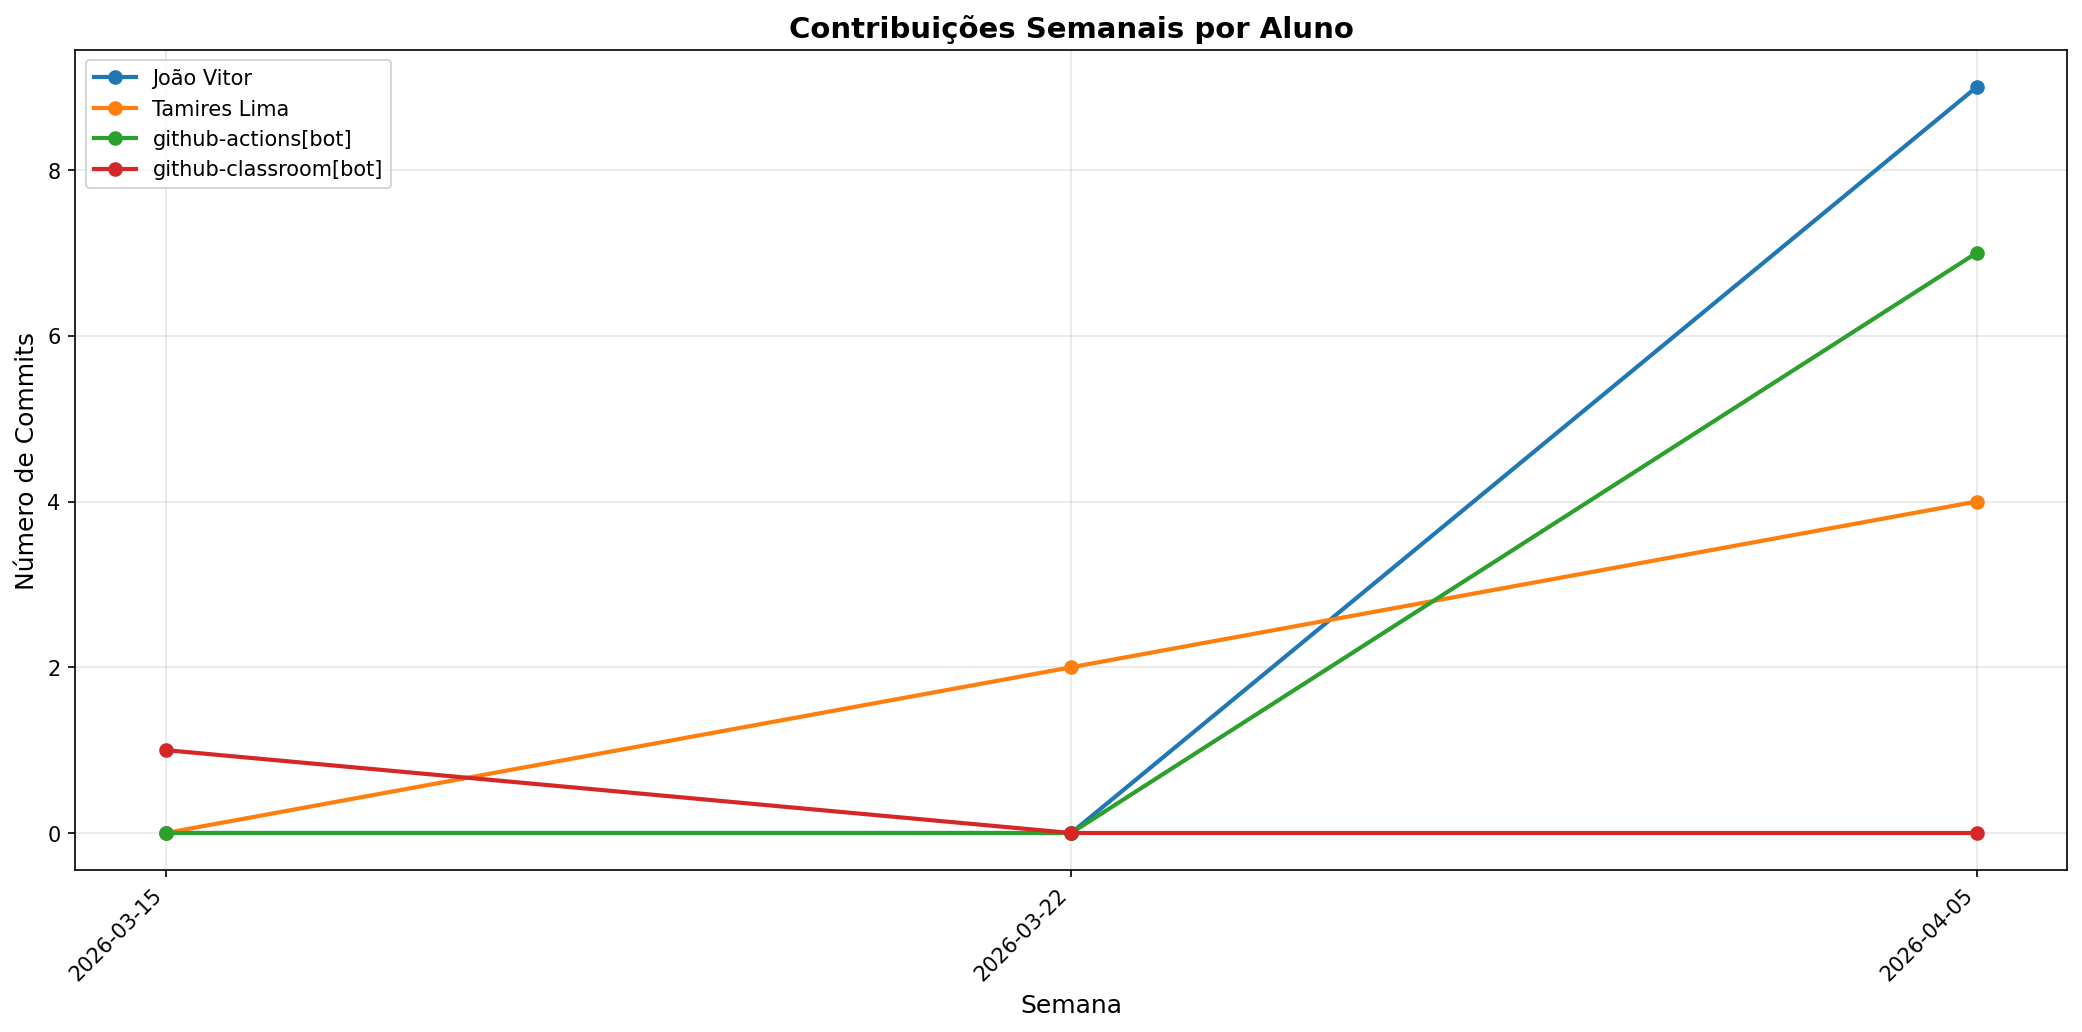
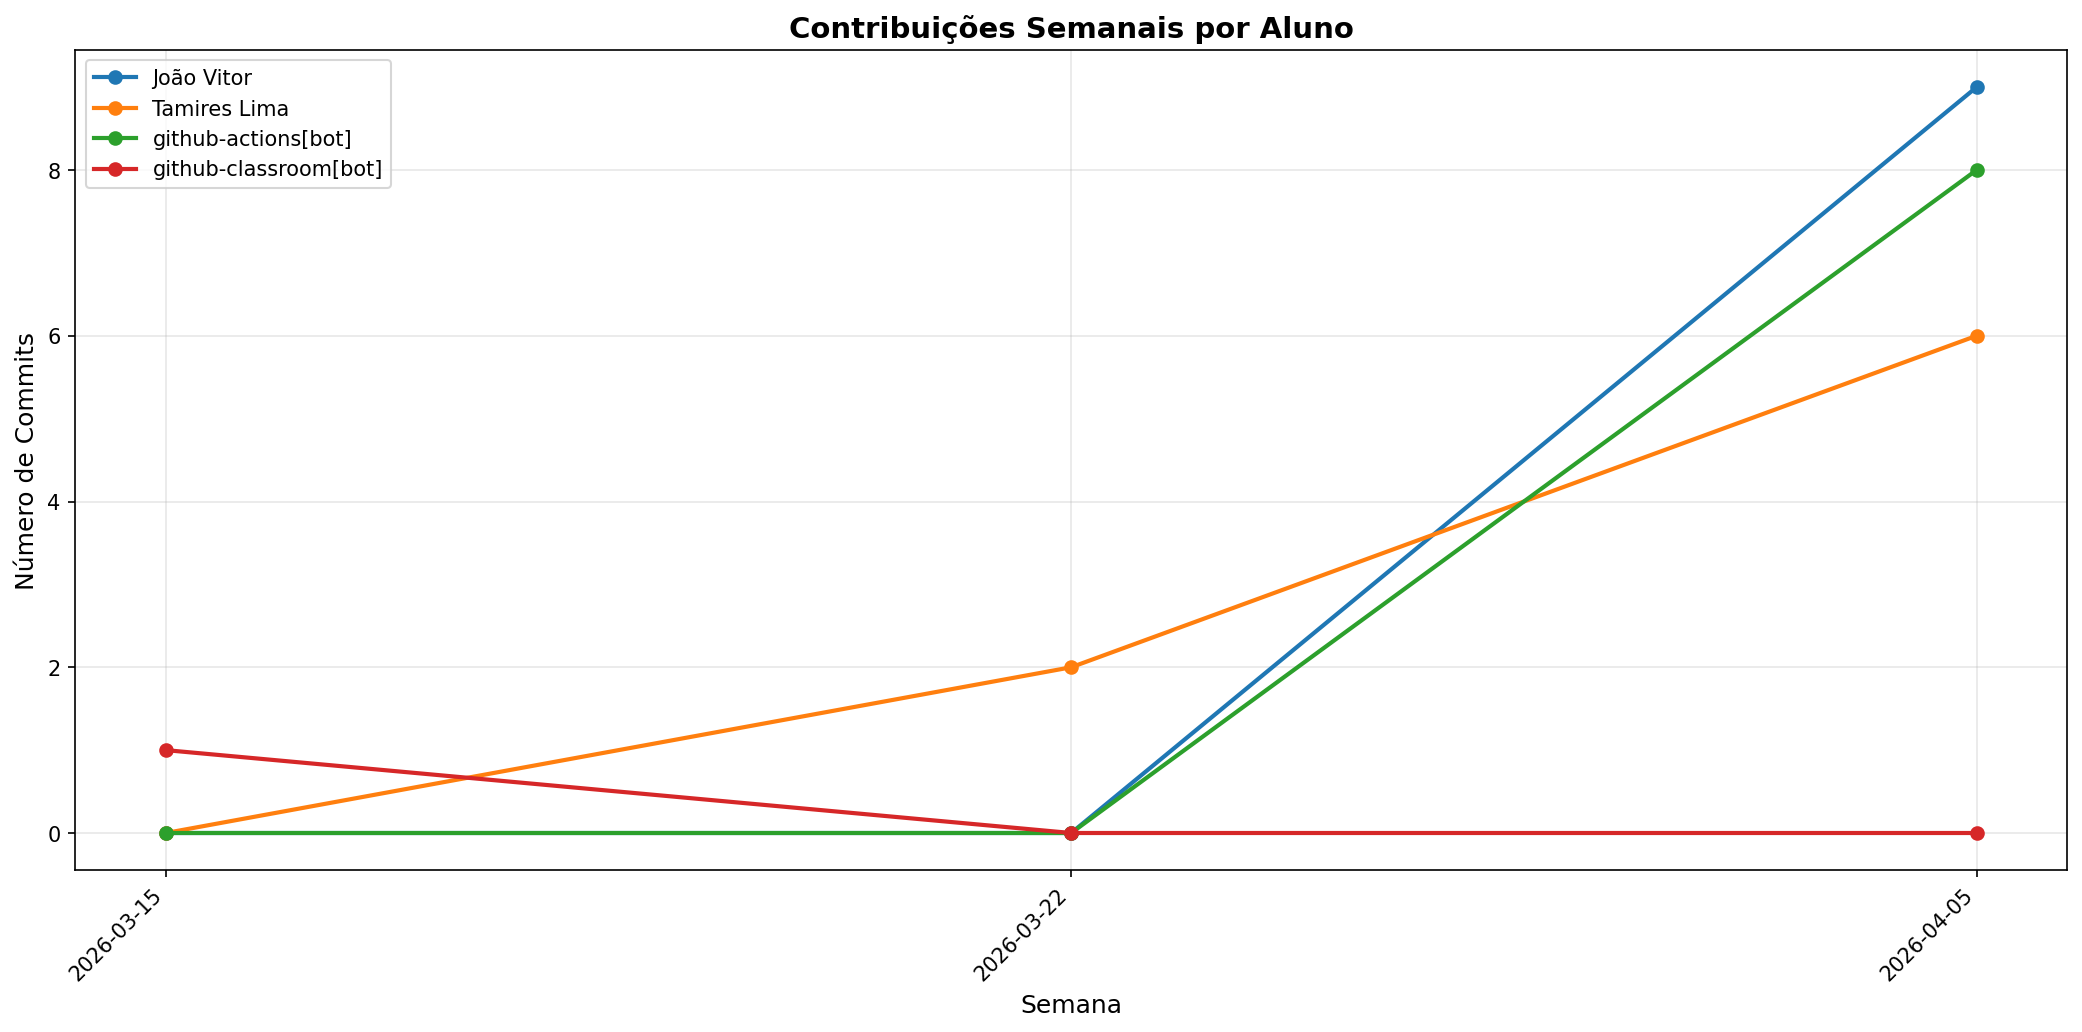
📊 Atualizar relatório de contribuições [skip ci]

diff --git a/documentos/CONTRIBUTION_REPORT.md b/documentos/CONTRIBUTION_REPORT.md
@@ -1,6 +1,6 @@
 # 📊 Relatório de Contribuições do Projeto
 
-**Última atualização:** 12/04/2026 16:58
+**Última atualização:** 12/04/2026 17:30
 
 ---
 
@@ -9,14 +9,14 @@
 | Aluno                 |   Commits |   Linhas+ |   Linhas- |   Arquivos |   Docs Commits |   Docs Arquivos |
 |-----------------------|-----------|-----------|-----------|------------|----------------|-----------------|
 | João Vitor            |         9 |        54 |        33 |          1 |              9 |               0 |
-| Tamires Lima          |         6 |       148 |        61 |         13 |              6 |               3 |
-| github-actions[bot]   |         7 |        78 |        28 |          3 |              7 |               1 |
+| Tamires Lima          |         8 |       151 |        69 |         14 |              8 |               3 |
+| github-actions[bot]   |         8 |        82 |        32 |          3 |              8 |               1 |
 | github-classroom[bot] |         1 |       774 |         0 |         19 |              1 |               3 |
 
 
 ## 📅 Contribuições Semanais (Todo o Semestre)
 
-**2026-04-05**: João Vitor: 9, Tamires Lima: 4, github-actions[bot]: 7
+**2026-04-05**: João Vitor: 9, Tamires Lima: 6, github-actions[bot]: 8
 
 **2026-03-22**: Tamires Lima: 2
 
